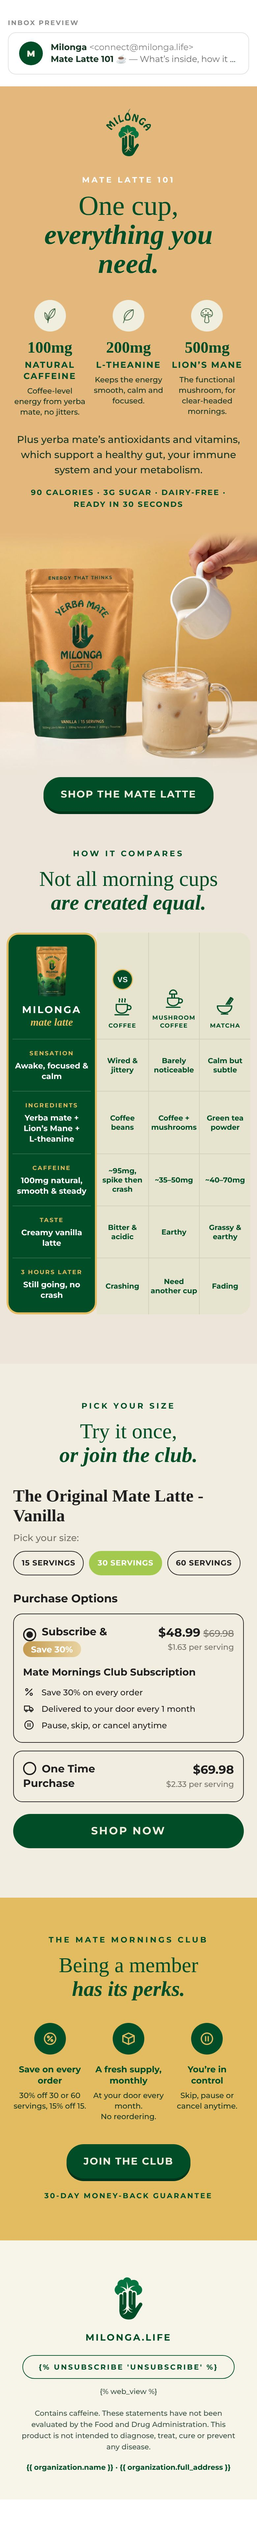
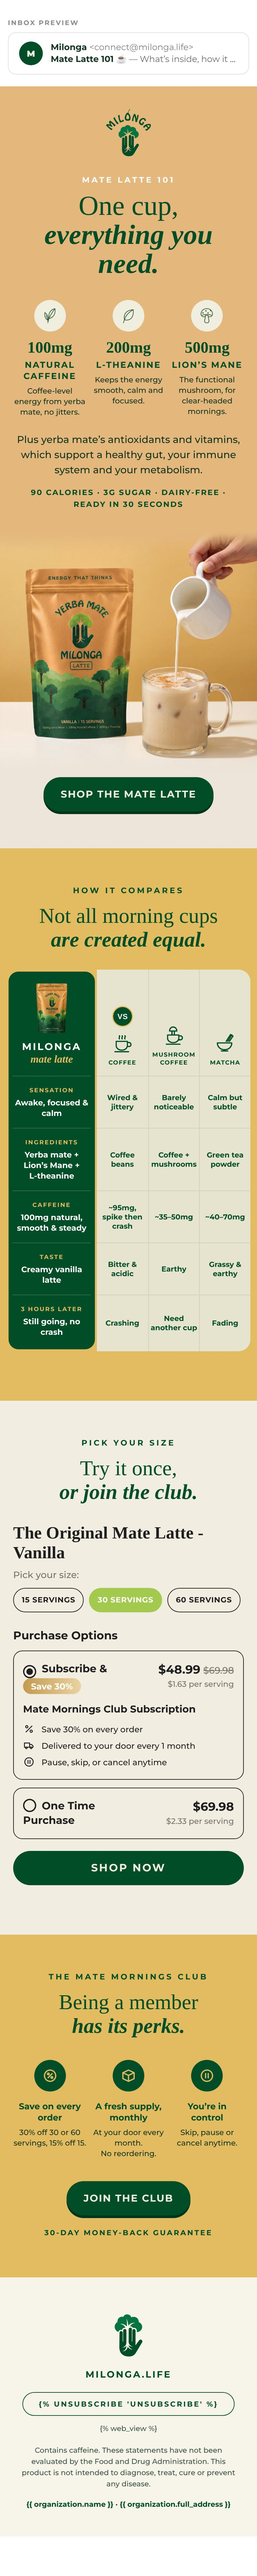
Mate Latte 101: comparison section on gold
Claude-Session: https://claude.ai/code/session_01NhEtXPnfeCJfN73SqBkUZ5

Changed region(s): [[0.0, 0.0312, 1.0, 0.9657], [0.3077, 0.0, 0.3385, 0.0312], [0.2462, 0.0, 0.2769, 0.0312]]

diff --git a/email-ds/refine/ml101.html b/email-ds/refine/ml101.html
@@ -123,13 +123,13 @@ body{margin:0;background:#FFFFFF;padding:28px 0 60px}
 <![endif]--><!--[if !mso]><!-- --><a href="https://milonga.life/products/the-original-mate-latte?utm_source=klaviyo&amp;utm_medium=email&amp;utm_campaign=mate_latte_101&amp;utm_content=ml_hero_button" target="_blank" class="btn" style="display:inline-block;background-color:#004D27;border-radius:999px;padding:20px 40px;font-family:'Montserrat','Helvetica Neue',Helvetica,Arial,sans-serif;font-size:16px;line-height:16px;font-weight:700;letter-spacing:2px;text-transform:uppercase;white-space:nowrap;color:#F0EFDF;text-decoration:none;box-shadow:0 4px 0 #00351B;">Shop the Mate Latte</a><!--<![endif]-->
 </td></tr>
 
-<!-- ── 2 · HOW IT COMPARES (the welcome E3 table, on the photo's table colour) ── -->
-<tr><td class="pad bg-table" align="center" bgcolor="#EDE5D9" style="background-color:#EDE5D9;padding:0 40px 0;font-family:'Montserrat','Helvetica Neue',Helvetica,Arial,sans-serif;">
+<!-- ── 2 · HOW IT COMPARES (the welcome E3 table, on gold, between the light first and third sections) ── -->
+<tr><td class="pad bg-gold" align="center" bgcolor="#E3BC62" style="background-color:#E3BC62;padding:56px 40px 0;font-family:'Montserrat','Helvetica Neue',Helvetica,Arial,sans-serif;">
 <div style="font-size:12px;line-height:16px;font-weight:700;letter-spacing:3px;text-transform:uppercase;color:#004D27;">How it compares</div>
 <div class="h-sec" style="padding-top:12px;font-family:'Times New Roman',Times,Georgia,serif;font-size:40px;line-height:44px;font-weight:400;color:#004D27;">Not all morning cups</div>
 <div class="h-sec" style="font-family:'Times New Roman',Times,Georgia,serif;font-size:40px;line-height:44px;font-weight:700;font-style:italic;color:#004D27;">are created equal.</div>
 </td></tr>
-<tr><td class="pad-cmp bg-table" bgcolor="#EDE5D9" style="background-color:#EDE5D9;padding:28px 20px 0;">
+<tr><td class="pad-cmp bg-gold" bgcolor="#E3BC62" style="background-color:#E3BC62;padding:28px 20px 0;">
 <table role="presentation" width="100%" cellpadding="0" cellspacing="0" border="0" style="border-collapse:separate;border-spacing:0;">
 <tr>
 <td class="cmp-mil" width="37%" align="center" valign="bottom" bgcolor="#004D27" style="width:37%;background-color:#004D27;border:3px solid #E3BC62;border-bottom:0;border-radius:18px 18px 0 0;padding:18px 8px 14px;font-family:'Montserrat','Helvetica Neue',Helvetica,Arial,sans-serif;">
@@ -210,7 +210,7 @@ body{margin:0;background:#FFFFFF;padding:28px 0 60px}
 </tr>
 </table>
 </td></tr>
-<tr><td class="pad bg-table" align="center" bgcolor="#EDE5D9" style="background-color:#EDE5D9;padding:0 40px 56px;font-family:'Montserrat','Helvetica Neue',Helvetica,Arial,sans-serif;">
+<tr><td class="pad bg-gold" align="center" bgcolor="#E3BC62" style="background-color:#E3BC62;padding:0 40px 56px;font-family:'Montserrat','Helvetica Neue',Helvetica,Arial,sans-serif;">
 &nbsp;
 </td></tr>
 

diff --git a/email-ds/exports/klaviyo/ml101/ml101.html b/email-ds/exports/klaviyo/ml101/ml101.html
@@ -125,13 +125,13 @@
 <![endif]--><!--[if !mso]><!-- --><a href="https://milonga.life/products/the-original-mate-latte?utm_source=klaviyo&amp;utm_medium=email&amp;utm_campaign=mate_latte_101&amp;utm_content=ml_hero_button" target="_blank" class="btn" style="display:inline-block;background-color:#004D27;border-radius:999px;padding:20px 40px;font-family:'Montserrat','Helvetica Neue',Helvetica,Arial,sans-serif;font-size:16px;line-height:16px;font-weight:700;letter-spacing:2px;text-transform:uppercase;white-space:nowrap;color:#F0EFDF;text-decoration:none;box-shadow:0 4px 0 #00351B;">Shop the Mate Latte</a><!--<![endif]-->
 </td></tr>
 
-<!-- ── 2 · HOW IT COMPARES (the welcome E3 table, on the photo's table colour) ── -->
-<tr><td class="pad bg-table" align="center" bgcolor="#EDE5D9" style="background-color:#EDE5D9;padding:0 40px 0;font-family:'Montserrat','Helvetica Neue',Helvetica,Arial,sans-serif;">
+<!-- ── 2 · HOW IT COMPARES (the welcome E3 table, on gold, between the light first and third sections) ── -->
+<tr><td class="pad bg-gold" align="center" bgcolor="#E3BC62" style="background-color:#E3BC62;padding:56px 40px 0;font-family:'Montserrat','Helvetica Neue',Helvetica,Arial,sans-serif;">
 <div style="font-size:12px;line-height:16px;font-weight:700;letter-spacing:3px;text-transform:uppercase;color:#004D27;">How it compares</div>
 <div class="h-sec" style="padding-top:12px;font-family:'Times New Roman',Times,Georgia,serif;font-size:40px;line-height:44px;font-weight:400;color:#004D27;">Not all morning cups</div>
 <div class="h-sec" style="font-family:'Times New Roman',Times,Georgia,serif;font-size:40px;line-height:44px;font-weight:700;font-style:italic;color:#004D27;">are created equal.</div>
 </td></tr>
-<tr><td class="pad-cmp bg-table" bgcolor="#EDE5D9" style="background-color:#EDE5D9;padding:28px 20px 0;">
+<tr><td class="pad-cmp bg-gold" bgcolor="#E3BC62" style="background-color:#E3BC62;padding:28px 20px 0;">
 <table role="presentation" width="100%" cellpadding="0" cellspacing="0" border="0" style="border-collapse:separate;border-spacing:0;">
 <tr>
 <td class="cmp-mil" width="37%" align="center" valign="bottom" bgcolor="#004D27" style="width:37%;background-color:#004D27;border:3px solid #E3BC62;border-bottom:0;border-radius:18px 18px 0 0;padding:18px 8px 14px;font-family:'Montserrat','Helvetica Neue',Helvetica,Arial,sans-serif;">
@@ -212,7 +212,7 @@
 </tr>
 </table>
 </td></tr>
-<tr><td class="pad bg-table" align="center" bgcolor="#EDE5D9" style="background-color:#EDE5D9;padding:0 40px 56px;font-family:'Montserrat','Helvetica Neue',Helvetica,Arial,sans-serif;">
+<tr><td class="pad bg-gold" align="center" bgcolor="#E3BC62" style="background-color:#E3BC62;padding:0 40px 56px;font-family:'Montserrat','Helvetica Neue',Helvetica,Arial,sans-serif;">
 &nbsp;
 </td></tr>
 
